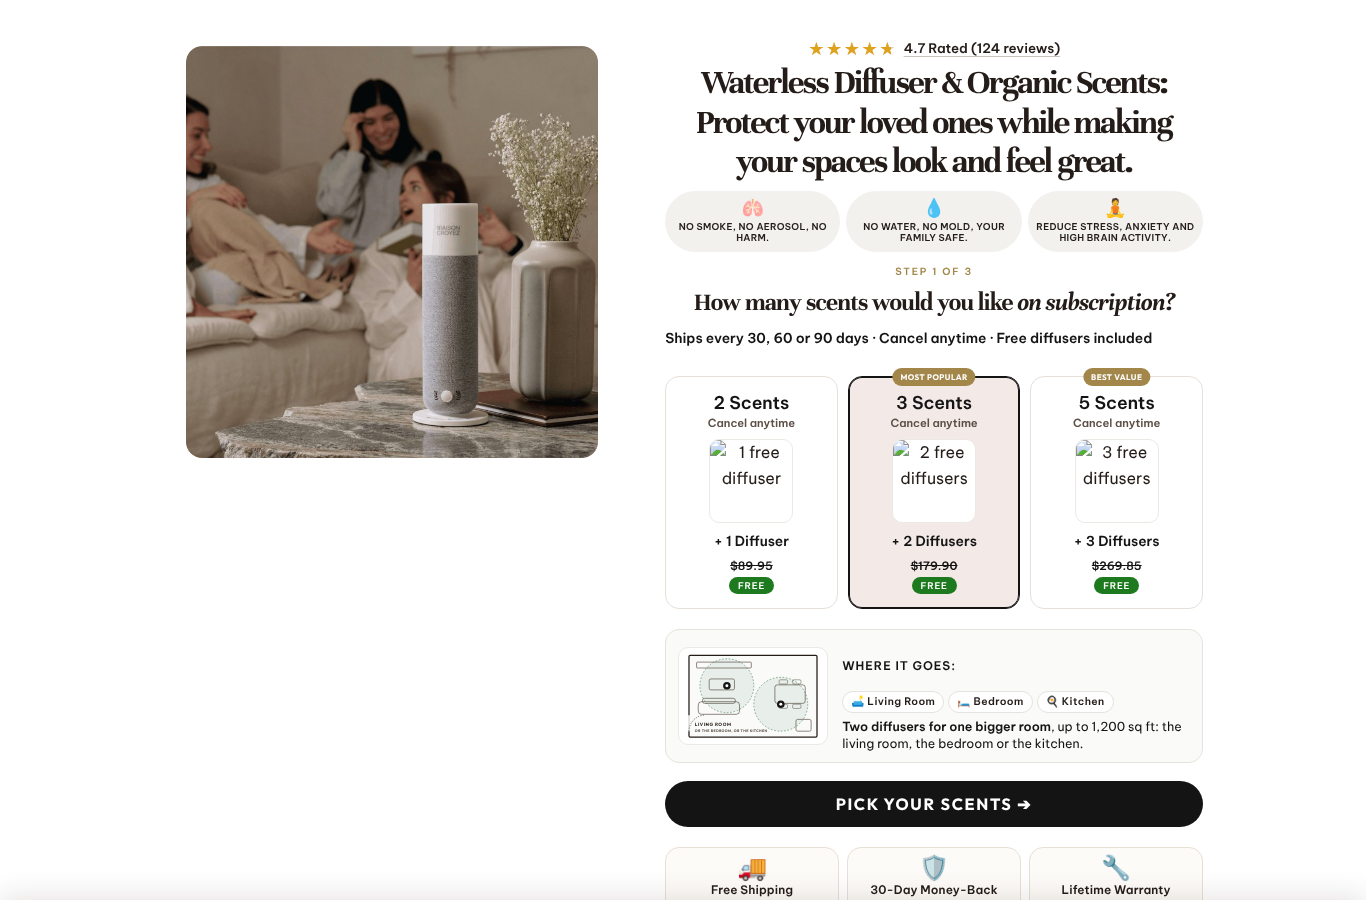
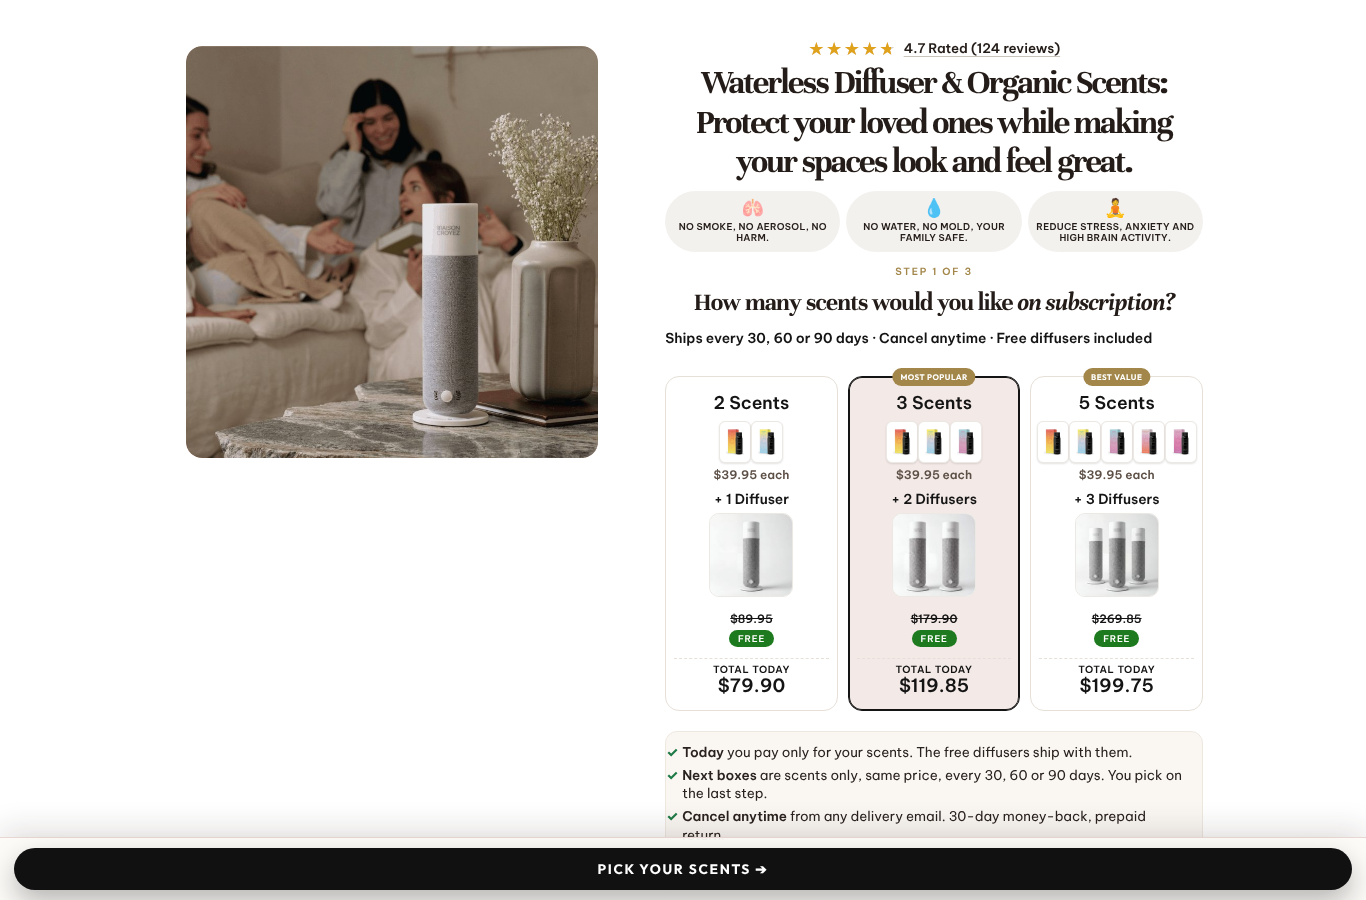
kits dk9s r2: prices, totals, bottle thumbnails, how-it-works strip (preview only)
Round 2 of the step-1 scents-first variant: per-scent price, total today, 2/3/5 bottle
thumbnails and a three-line how-it-works strip. Still preview only; live page untouched.
Artifact TK1GvMvzMi69pP4wiLMfyN v38.

Claude-Session: https://claude.ai/code/session_01Qt6jwbZYcUd6pzyfawb3Bj

Changed region(s): [[0.0, 0.4667, 1.0, 1.0]]

diff --git a/lp-factory/pages/diffuser-kits/variants/dk9s-step1-scents/patch.py b/lp-factory/pages/diffuser-kits/variants/dk9s-step1-scents/patch.py
@@ -1,5 +1,6 @@
 # dk9s (2026-10-25, owner): step 1 framed around the scent subscription (2 / 3 / 5 scents), free diffusers shown per option. Preview-only variant.
-import sys, re
+# round 2: bottle thumbnails + "$39.95 each" per card, "Total today" per card, a three-line "how it works" strip under the cards.
+import sys
 R = '/home/user/maisoncroyez/lp-factory/pages/diffuser-kits/'
 out = sys.argv[1]
 app = open(R + 'mc-dk-app.js', encoding='utf-8').read()
@@ -8,32 +9,62 @@ def rep(s, old, new, n=1):
     c = s.count(old)
     assert c == n, (c, old[:80])
     return s.replace(old, new)
+MID = '·'
 app = rep(app,
   '<div class="picker-title step-title s9-title">How many spaces would you like to <em>transform today?</em></div>',
-  '<div class="picker-title step-title s9-title">How many scents would you like <em>on subscription?</em></div><p class="s9-sub">Ships every 30, 60 or 90 days · Cancel anytime · Free diffusers included</p> <!-- dk9s (2026-10-25, owner): step 1 is about the scent subscription; the diffusers are the free gift per option -->')
+  '<div class="picker-title step-title s9-title">How many scents would you like <em>on subscription?</em></div><p class="s9-sub">Ships every 30, 60 or 90 days ' + MID + ' Cancel anytime ' + MID + ' Free diffusers included</p> <!-- dk9s (2026-10-25, owner): step 1 is about the scent subscription; the diffusers are the free gift per option -->')
 app = rep(app, 'aria-label="How many free diffusers"', 'aria-label="How many scents"')
 app = rep(app,
   'aria-label=${t.name + ": " + t.n + " diffuser" + (t.n > 1 ? "s" : "") + ", requires " + t.scents + " scents"}',
-  'aria-label=${t.scents + " scents on subscription, " + t.n + " free diffuser" + (t.n > 1 ? "s" : "") + " (" + t.name + ")"}')
+  'aria-label=${t.scents + " scents at " + usd(SCENT_ONE) + " each, " + t.n + " free diffuser" + (t.n > 1 ? "s" : "") + ", " + usd(t.price) + " today (" + t.name + ")"}')
 app = rep(app,
   '''                <${Img} slot=${"kit" + t.n} alt=${t.name}/>
                 <span class="t9-n">${t.n} Diffuser${t.n > 1 ? "s" : ""}</span>
                 <span class="t9-req">(Requires ${t.scents} scents)</span>
                 <span class="t9-val"><s>${usd(val)}</s><b>FREE</b></span>''',
   '''                <span class="t9-n t9s-n">${t.scents} Scents</span>
-                <span class="t9-req t9s-req">Cancel anytime</span>
-                <${Img} slot=${"kit" + t.n} alt=${t.n + " free diffuser" + (t.n > 1 ? "s" : "")}/>
+                <span class="t9s-bottles" aria-hidden="true">${fillKeys(t.scents).map((k, i) => html`<img key=${i} class="t9s-b" src=${fragSrc(k)} alt="" loading="lazy" decoding="async"/>`)}</span>
+                <span class="t9s-each">${usd(SCENT_ONE)} each</span>
                 <span class="t9s-gift">+ ${t.n} Diffuser${t.n > 1 ? "s" : ""}</span>
-                <span class="t9-val"><s>${usd(val)}</s><b>FREE</b></span>''')
+                <${Img} slot=${"kit" + t.n} alt=${t.n + " free diffuser" + (t.n > 1 ? "s" : "")}/>
+                <span class="t9-val"><s>${usd(val)}</s><b>FREE</b></span>
+                <span class="t9s-total"><small>Total today</small><b>${usd(t.price)}</b></span>''')
+app = rep(app,
+  'const fillKeys = (n) => Array.from({ length: n }, (_, i) => FILL_ORDER[i % FILL_ORDER.length]);',
+  'const fillKeys = (n) => Array.from({ length: n }, (_, i) => FILL_ORDER[i % FILL_ORDER.length]);\nconst fragSrc = (k) => { const f = CONFIG.fragrances.find((x) => x.key === k); const im = f && CONFIG.images[f.pimg || f.img]; return im ? im.src : ""; }; /* dk9s: bottle thumbnails on the step-1 cards */')
+app = rep(app,
+  '''              </div>`; })}
+          </div>
+
+          <div class="place" key=${T.key}>''',
+  '''              </div>`; })}
+          </div>
+          <ul class="t9s-how"> <!-- dk9s (2026-10-25): what happens after the click, in three lines -->
+            <li><b>Today</b> you pay only for your scents. The free diffuser${T.n > 1 ? "s ship" : " ships"} with them.</li>
+            <li><b>Next boxes</b> are scents only, same price, every 30, 60 or 90 days. You pick on the last step.</li>
+            <li><b>Cancel anytime</b> from any delivery email. 30-day money-back, prepaid return.</li>
+          </ul>
+
+          <div class="place" key=${T.key}>''')
 css += '''
 /* dk9s (2026-10-25): step 1 scent-subscription framing */
 #root .s9-sub{font-family:'Outfit',sans-serif;font-weight:600;font-size:.74rem;line-height:1.35;color:#5C4F46;text-align:center;margin:-6px 0 10px}
 @media (min-width:700px){#root .s9-sub{font-size:.86rem;text-align:left;margin:-2px 0 12px}}
 #root .tier.t9c3 .t9s-n{font-size:.95rem;font-weight:800;line-height:1.1}
 @media (min-width:700px){#root .tier.t9c3 .t9s-n{font-size:1.1rem}}
-#root .tier.t9c3 .t9s-req{color:#5C4F46;font-weight:600;margin:0 0 4px}
+#root .tier.t9c3 .t9s-bottles{display:flex;justify-content:center;align-items:flex-end;height:34px;margin:2px 0 0}
+#root .tier.t9c3 .t9s-b{width:24px;height:32px;object-fit:contain;background:#fff;border:1px solid #ECE9E4;border-radius:6px;margin:0 0 0 -8px;box-shadow:0 1px 2px rgba(36,28,24,.12)}
+#root .tier.t9c3 .t9s-b:first-child{margin-left:0}
+#root .tier.t9c3 .t9s-each{font-family:'Outfit',sans-serif;font-weight:600;font-size:.66rem;color:#5C4F46;line-height:1.2;margin:0 0 5px}
 #root .tier.t9c3 .t9s-gift{font-family:'Outfit',sans-serif;font-weight:800;font-size:.76rem;line-height:1.15;color:#141414}
-@media (min-width:700px){#root .tier.t9c3 .t9s-gift{font-size:.86rem}}
+#root .tier.t9c3 .t9s-total{display:flex;flex-direction:column;align-items:center;line-height:1.1;margin-top:6px;padding-top:6px;border-top:1px dashed #E6E0D8;width:100%}
+#root .tier.t9c3 .t9s-total small{font-family:'Outfit',sans-serif;font-weight:600;font-size:.58rem;letter-spacing:.06em;text-transform:uppercase;color:#5C4F46}
+#root .tier.t9c3 .t9s-total b{font-family:'Outfit',sans-serif;font-weight:800;font-size:1rem;color:#141414}
+@media (min-width:700px){#root .tier.t9c3 .t9s-b{width:32px;height:42px;margin-left:-9px}#root .tier.t9c3 .t9s-bottles{height:44px}#root .tier.t9c3 .t9s-each{font-size:.74rem}#root .tier.t9c3 .t9s-gift{font-size:.86rem}#root .tier.t9c3 .t9s-total b{font-size:1.15rem}#root .tier.t9c3 .t9s-total small{font-size:.62rem}}
+#root .t9s-how{list-style:none;margin:0 0 10px;padding:10px 12px;background:#FAF7F3;border:1px solid #EFE8E0;border-radius:12px;font-family:'Outfit',sans-serif;font-size:.74rem;line-height:1.35;color:#2A221E;display:grid;gap:5px}
+#root .t9s-how li{position:relative;padding-left:16px;margin:0}
+#root .t9s-how li::before{content:"\\2713";position:absolute;left:0;top:0;color:#1E7A46;font-weight:800}
+@media (min-width:700px){#root .t9s-how{font-size:.84rem;padding:12px 14px}}
 '''
 open(out + '/mc-dk-app.js', 'w', encoding='utf-8').write(app)
 open(out + '/mc-dk.css', 'w', encoding='utf-8').write(css)

diff --git a/lp-factory/pages/free-diffusers/STATUS.md b/lp-factory/pages/free-diffusers/STATUS.md
@@ -317,3 +317,4 @@ $0.00") — r233 updates them. Special Kits product 8245945434221 is now unused 
 - 2026-10-21 ritual rt21 LIVE (21:51 UTC, key rt21-d0937da) — owner: "New price for the diffuser is 89.95 everywhere". mc-rt-app.js: DIFFUSER_PRICE 80 → 89.95 (the struck header price becomes $209.80 = 3 × $39.95 + $89.95, value() and offerPct follow); nothing else changed. fileUpdate 46231878860909 from raw @ d0937da (103,488 B, READY 21:33:15Z); pageUpdate 161683341421 at 21:51:00Z (body = rt20 body with the new key, sent as a GraphQL variable). Price audit: standalone diffuser 8153621921901 $89.95; "Maison Croyez — Diffuser Special Bundles" (/products/diffuser-scents, the home page's Diffusers card) Studio $89.95 / Condo 3 for $209.95 (compare-at $269.85) / House 5 for $289.95 (compare-at $449.75); kit variants $89.95 / $179.90 / $269.85. The kit product still carries three unused "(One-Time)" variants ($80.00 / $60.05 / $90.10, September model, no live page adds them) — deletion proposed to the owner. Verify: page-shot dispatch on the ritual URL.
 - 2026-10-22 kits dk9r LIVE (22:49 UTC, key dk9r-b1746c3) — owner: "/pages/diffuser-kits … loads EXTREMELY SLOW? Can you check and fix?" Measured first (new paint-trace.yml: CDP-throttled phone 1.6 Mbps / 150 ms / 4x CPU, phone unthrottled, desktop; in-page marks from document creation, LCP candidates, long tasks, a scripted first tap, top resources; lh-live 3×2): Lighthouse mobile 45 / 92 / 91 (median 91, was 55 on 10/13), desktop 97 / 96 / 98; fast phone: header + hero at 0.3 s, buy box at 0.35 s; throttled phone: hero 0.6–1.4 s, buy box ~3.0–3.3 s (bandwidth: our 37 KB of JS share the first 3 s with Shopify's wpm 83 KB, the theme fonts 89 KB, theme.js 56 KB). The real sluggishness was the FIRST TAP on a phone: 350–820 ms until step 2 showed, with 4 long tasks (115 / 124 / 88 / 246 ms) — every step change unmounted and later re-mounted everything below the buy box (hundreds of nodes, 19 images), the seven scent tiles (~280 KB) only started downloading at the tap (0 of 7 loaded 3 s later on slow 4G), and the first interaction released ~400 KB of third-party JS at once. dk9r (mc-dk-app.js 129,888 B from raw @ b1746c3, READY 22:35:46Z; pageUpdate 161846919277 at 22:49:00Z): the long-form sections stay mounted and are hidden with display:none on steps 2 / 3 inside a StaticOnce wrapper (preact Component with shouldComponentUpdate false — the React shim has no Component, caught in the local preview); the tiles + the step-3 picture are warmed at low priority 1.5 s after mount (idle); the five owner PNG section images get &width=1000 from the CDN; the 800 px hero swap only runs on desktop (on phones it only moved the LCP later); the page body releases the third parties 1.2 / 2.5 / 4.5 s after the first interaction instead of at once. After (paint-trace 22:50): throttled phone tap handled 218–264 ms, step 2 in 222–269 ms, one long task (72–164 ms), 6–7 of 7 tiles already loaded; fast phone 87 / 88 ms; CLS 0. page-shot 23:00: key, body md5 match, header block ×3, 0 errors, carts $119.85 with the kit at $0. qa-kits 20261022T2251 43/47 = the three fold misses + the hero check that expected the 800 px file on phones (check updated). Not changed: the ~3 s buy-box time on slow 4G is set by Shopify / theme bytes ahead of ours; TTI 7–8 s in Lighthouse is the deferred third parties landing at 5–6 s.
 - 2026-10-25 kits dk9s — PREVIEW ONLY (artifact TK1GvMvzMi69pP4wiLMfyN v37, not deployed; owner: "I don't want it to be deployed on Shopify. I just need you to edit the artifact"): step 1 reframed around the scent subscription so visitors see the scents and the subscription before the free diffusers — title "How many scents would you like on subscription?", line "Ships every 30, 60 or 90 days · Cancel anytime · Free diffusers included", the three cards read "2 / 3 / 5 Scents · Cancel anytime · [kit image] · + 1 / 2 / 3 Diffusers · $89.95 / $179.90 / $269.85 FREE" (owner confirmed 2 / 3 / 5 after first saying 1 / 2 / 3). Same design, steps 2–3 / prices / plans / cart wiring untouched; live page stays dk9r. Source: lp-factory/pages/diffuser-kits/variants/dk9s-step1-scents/ (patch.py + build-variant.mjs + step-1 shots). Local walk: 0 JS errors on phone / small / desktop.
+- 2026-10-25 kits dk9s round 2 — PREVIEW ONLY (artifact TK1GvMvzMi69pP4wiLMfyN v38): owner asked for the free-diffuser pictures per option, "$39.95" per scent and the totals. Each step-1 card now: "2 / 3 / 5 Scents" · 2 / 3 / 5 bottle thumbnails (step-2 product photos) · "$39.95 each" · "+ 1 / 2 / 3 Diffusers" · kit picture · struck $89.95 / $179.90 / $269.85 + FREE · "TOTAL TODAY $79.90 / $119.85 / $199.75"; plus a three-line how-it-works strip under the cards (today scents only + free diffusers ship with them / next boxes scents only, same price, 30-60-90 / cancel anytime, 30-day money-back) restating the FAQ. Local walk 0 JS errors on phone / small / desktop. Details in lp-factory/pages/diffuser-kits/variants/dk9s-step1-scents/README.md. Still not deployed.

diff --git a/lp-factory/pages/diffuser-kits/variants/dk9s-step1-scents/README.md b/lp-factory/pages/diffuser-kits/variants/dk9s-step1-scents/README.md
@@ -2,12 +2,21 @@
 
 Owner request 2026-10-25: step 1 of /pages/diffuser-kits confused visitors because the three options were
 "1 / 2 / 3 Diffusers" with nothing about the scents or the subscription that makes the diffusers free.
-Same design; the options now read "2 / 3 / 5 Scents · Cancel anytime · [kit image] · + 1 / 2 / 3 Diffusers · $89.95 / $179.90 / $269.85 FREE",
-the title is "How many scents would you like on subscription?" with the line
-"Ships every 30, 60 or 90 days · Cancel anytime · Free diffusers included" under it. Steps 2 and 3, prices, plans and cart wiring unchanged.
+Same design; live page stays dk9r. Steps 2 and 3, prices, plans and cart wiring unchanged.
 
-- `patch.py <outdir>` — reads the live `mc-dk-app.js` / `mc-dk.css` and writes the variant pair into `<outdir>` (asserts on every anchor).
-- `build-variant.mjs` — the scratchpad `pw/build.mjs` with `APP=` / `CSS=` env overrides; builds the self-contained preview page.
-- Preview: artifact https://claude.ai/artifact/TK1GvMvzMi69pP4wiLMfyN v37 ("dk9s step 1 scents-first"). Local three-step walk (steps-shot.mjs): 0 JS errors on phone / small / desktop; step 1 texts
-  "2 Scents Cancel anytime + 1 Diffuser $89.95 FREE" / "MOST POPULAR 3 Scents … + 2 Diffusers $179.90 FREE" / "BEST VALUE 5 Scents … + 3 Diffusers $269.85 FREE".
-- Not done on purpose: no deploy, no prices on step 1 (dk9 rule), no change to the home-page cards or the qa-kits gate.
+## Round 1 (artifact v37)
+Title "How many scents would you like on subscription?" + line "Ships every 30, 60 or 90 days · Cancel anytime · Free diffusers included";
+cards "2 / 3 / 5 Scents · Cancel anytime · [kit image] · + 1 / 2 / 3 Diffusers · $89.95 / $179.90 / $269.85 FREE".
+
+## Round 2 (artifact v38) — owner: "add an extra image … show the free diffusers … put the price on each variant, $39.95, and the total"
+Each card now reads, top to bottom: "2 / 3 / 5 Scents" · a row of 2 / 3 / 5 bottle thumbnails (the step-2 product photos, slots love / abundance / … in FILL_ORDER) ·
+"$39.95 each" · "+ 1 / 2 / 3 Diffusers" · the kit picture (1 / 2 / 3 diffusers) · struck $89.95 / $179.90 / $269.85 + FREE pill · "TOTAL TODAY $79.90 / $119.85 / $199.75".
+"Cancel anytime" moved off the card into the title line and a new three-line strip under the cards (my addition, owner asked what else would cut friction):
+"Today you pay only for your scents. The free diffuser(s) ship with them." / "Next boxes are scents only, same price, every 30, 60 or 90 days. You pick on the last step." /
+"Cancel anytime from any delivery email. 30-day money-back, prepaid return." (all three restate the page's own FAQ answers).
+
+- `patch.py <outdir>` — reads the live `mc-dk-app.js` / `mc-dk.css` and writes the variant pair into `<outdir>` (asserts on every anchor; adds `fragSrc()` next to `fillKeys()`).
+- `build-variant.mjs` — the scratchpad `pw/build.mjs` with `APP=` / `CSS=` env overrides; inlines the kit pictures and the ritual bottle webps. `STANDIN=1` swaps the CDN-only product photos for the ritual bottle shots (local screenshots only — the sandbox cannot reach the Shopify CDN; the published artifact keeps the real URLs).
+- Local three-step walk (steps-shot.mjs) after round 2: 0 JS errors on phone / small / desktop; step-1 card texts
+  "2 Scents $39.95 each + 1 Diffuser $89.95 FREE TOTAL TODAY $79.90" / "MOST POPULAR 3 Scents … + 2 Diffusers $179.90 FREE TOTAL TODAY $119.85" / "BEST VALUE 5 Scents … + 3 Diffusers $269.85 FREE TOTAL TODAY $199.75".
+- Not done on purpose: no deploy, no change to the home-page cards or the qa-kits gate (its step-1 checks would need the new texts before any deploy).
